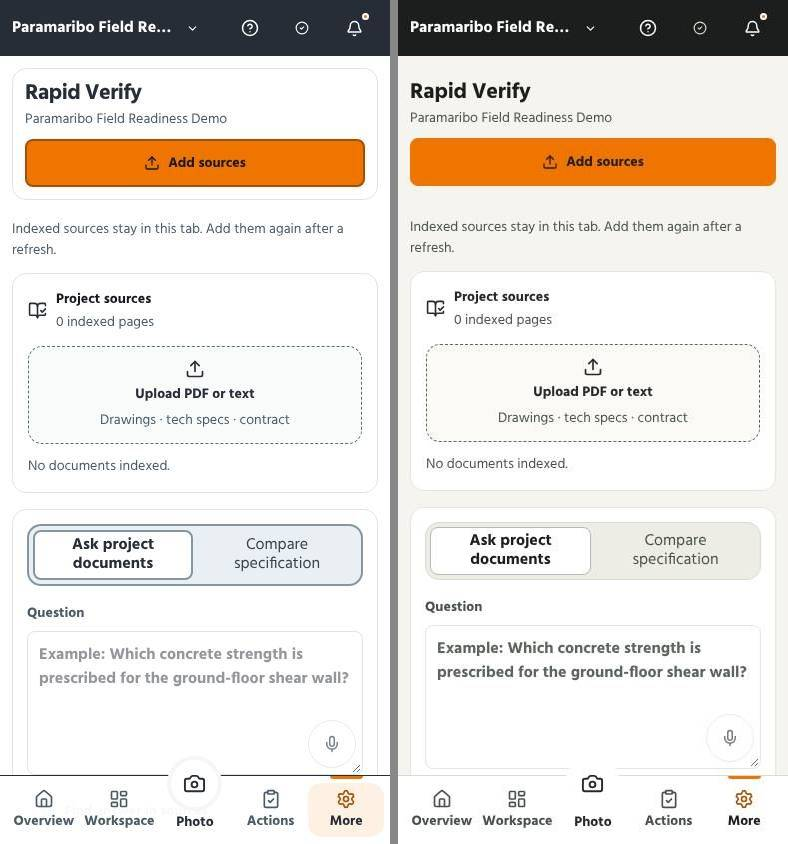
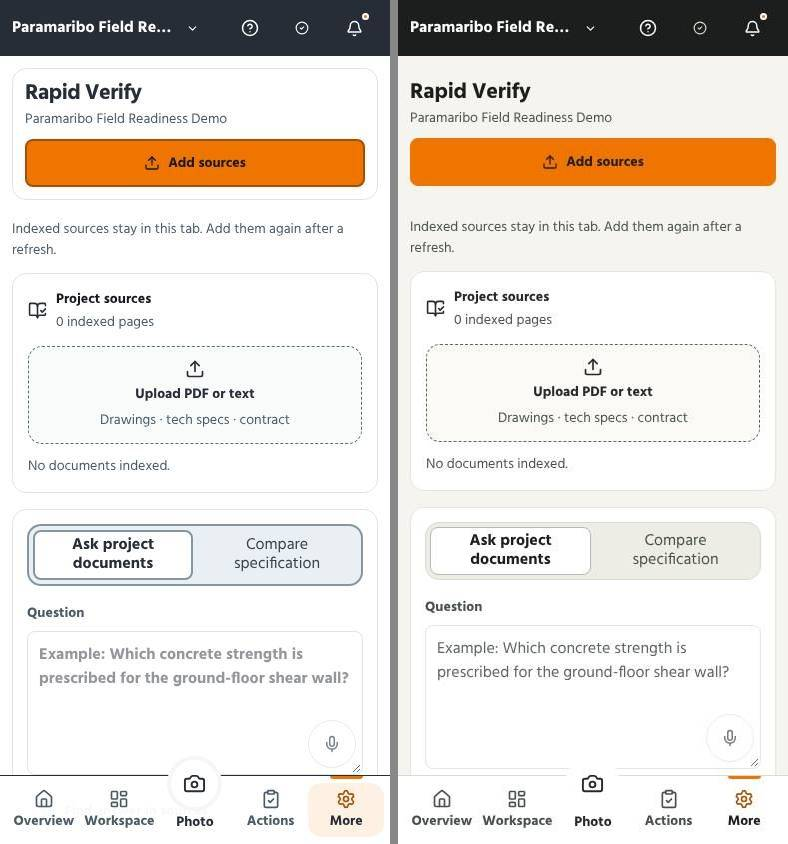
UI audit pass: 123 screens, every role and width; headings, module header, dialogs, data fixes
Visual system
- App headings are bold again: Tailwind's reset set them to body weight and many
  never set their own. Zero-specificity rule scoped to the app.
- Module header: module name is the page title, count beside it, natural-width
  New; icon-only back button on phones (accessible name kept).
- Dialogs, help guide, phone module sheet, project switcher, report check,
  project list, media tiles, management strips, backup health: soft rules,
  no tinted icon squares or orange caps labels, orange only for the current
  selection, sage for on/done.
- Tablet: headings stay left-aligned; title and primary action share a row.
- One primary per view: checklist library installs are secondary buttons.

Behaviour and copy
- Recent activity showed the viewer's name on every record; it now shows the
  author (own name, a known member, or "Another team member").
- Overview weather error is bilingual instead of the API's Dutch text.
- Photo empty state does not offer "Take photo" to roles that cannot record.
- Action center empty project no longer says "No records match" with a
  pointless "Clear filters".
- Project rule toggles carry aria-pressed; on is sage with a tick.
- Report check button reads "Fill in" instead of "Complete".

Findings table and before/after images in docs/operations/ui-refresh-2026-10-30.

Claude-Session: https://claude.ai/code/session_01JJQWCt85nagY6tNx6wjh6H

Changed region(s): [[0.5482, 0.7393, 0.9442, 0.8009]]

diff --git a/apps/web/app/styles/system.css b/apps/web/app/styles/system.css
@@ -36,7 +36,7 @@ input:not([type="checkbox"]):not([type="radio"]):focus,
 select:focus,
 textarea:focus { border-color: var(--ink-900); }
 input::placeholder,
-textarea::placeholder { color: var(--ink-600); }
+textarea::placeholder { color: var(--ink-600); font-weight: var(--weight-normal); opacity: 1; }
 
 /* Ticks, radio dots and switches are sage: a box that is ticked is work done. */
 input[type="checkbox"],
@@ -466,4 +466,229 @@ input[type="radio"] { accent-color: var(--sage-700); }
 /* Report sources: a ticked source is a quiet row, the tick carries the state. */
 .report-source-checklist label { border-color: var(--line); }
 .report-source-checklist label:hover { border-color: var(--ink-500); }
-.report-source-checklist label:has(input:checked) { background: var(--sage-50); border-color: var(--sage-200); }
+@media (max-width: 640px) {
+  /* Short source names: two to a row, so the list is half as long. */
+  .report-source-checklist { display: grid; gap: var(--space-2); grid-template-columns: repeat(2, minmax(0, 1fr)); }
+  .report-source-checklist label { min-width: 0; overflow-wrap: anywhere; }
+}
+
+/* ---------- Dialogs ---------- */
+
+/* Every dialog has one bold title; the line under it is plain muted text. */
+.modal-header { background: var(--paper); border-bottom-color: var(--line); }
+.modal-header h2,
+.mobile-module-sheet header h2,
+.field-guide-dialog > header h2 { color: var(--ink-950); font-weight: var(--weight-bold); letter-spacing: -.01em; }
+.modal-header p { color: var(--ink-700); font-size: var(--text-sm); }
+.modal-close,
+.mobile-module-sheet header > button {
+  background: var(--paper);
+  border: 1px solid var(--line);
+  border-radius: var(--radius-sm);
+  color: var(--ink-800);
+}
+.modal-close:hover,
+.mobile-module-sheet header > button:hover { background: var(--ink-50); border-color: var(--ink-500); }
+
+/* Built-in guide: the small label above the question is plain muted text, not an orange caps line;
+   task icons are line work, and the chosen task carries the orange selection on its border. */
+.field-guide-dialog > header span { color: var(--ink-700); font-size: var(--text-sm); font-weight: var(--weight-semibold); }
+.field-guide-task-picker button,
+.field-guide-task-detail { border-color: var(--line); }
+.field-guide-task-picker button > span,
+.field-guide-task-picker button.active > span { background: transparent; color: var(--ink-700); }
+.field-guide-task-picker button strong { color: var(--ink-900); font-size: var(--text-sm); }
+.field-guide-task-picker button.active { background: var(--paper); border-color: var(--signal); color: var(--ink-950); }
+.field-guide-task-picker button.active > span { color: var(--signal-dark); }
+
+/* Phone module sheet: one ruled list, icons without a tinted square. */
+.mobile-module-grid { gap: 0; }
+.mobile-module-grid > button,
+.mobile-module-grid > button.active {
+  background: var(--paper);
+  border: 0;
+  border-bottom: 1px solid var(--ink-200);
+  border-radius: 0;
+  color: var(--ink-800);
+}
+.mobile-module-grid > button:last-of-type { border-bottom: 0; }
+.mobile-module-grid > button > span:first-child { background: transparent; color: var(--ink-700); }
+.mobile-module-grid > button.active > span:first-child { color: var(--signal-dark); }
+.mobile-module-grid > button strong { color: var(--ink-950); }
+
+/* Project switcher: the current project is the current selection, so it is marked in orange. */
+.project-switcher-row { border-color: var(--line); }
+.project-switcher-row:hover,
+.project-switcher-row:focus-visible { border-color: var(--ink-500); }
+.project-switcher-row.active { background: var(--paper); border-color: var(--signal); }
+.project-switcher-row.active .project-switcher-icon,
+.project-switcher-row.active .project-switcher-state { color: var(--signal-dark); }
+
+/* Report check: a quiet ruled list; on a phone the button that fills a gap sits under its text. */
+.report-check-list { gap: 0; }
+.report-check-row {
+  background: transparent;
+  border: 0;
+  border-bottom: 1px solid var(--ink-200);
+  border-radius: 0;
+  padding: var(--space-3) 0;
+}
+.report-check-row:last-child { border-bottom: 0; }
+.report-check-state { border-radius: var(--radius-pill); }
+.report-check-copy strong { color: var(--ink-950); font-size: var(--text-md); }
+.report-check-copy span { color: var(--ink-700); font-size: var(--text-sm); }
+.report-summary-box { background: var(--ink-025); border-color: var(--line); }
+@media (max-width: 640px) {
+  .report-check-row { align-items: start; grid-template-columns: auto minmax(0, 1fr); }
+  .report-check-row > .ui-button { grid-column: 2; justify-self: start; padding-inline: 0; }
+}
+
+/* ---------- Project list ---------- */
+
+.context-shell { background: var(--canvas); }
+.context-topbar { background: var(--paper); border-bottom: 1px solid var(--line); }
+.context-brand .company-lockup { align-items: flex-start; }
+.context-brand .company-logo-context { color: var(--ink-700); font-size: var(--text-sm); letter-spacing: 0; text-transform: none; }
+.context-heading h1 { color: var(--ink-950); font-weight: var(--weight-bold); letter-spacing: -.015em; }
+.data-mode-notice { border-color: var(--line); border-radius: var(--radius-md); font-size: var(--text-sm); }
+.data-mode-notice.connected { background: var(--sage-50); border-color: var(--sage-200); color: var(--sage-700); }
+.portfolio-cta { border-radius: var(--radius-sm); }
+.project-selection-grid { border-color: var(--line); }
+.project-selection-grid .project-selection-card { border-color: var(--ink-200); }
+.project-selection-grid .project-selection-card:hover { background: var(--ink-025); }
+
+/* ---------- Module header in the workspace ---------- */
+
+/* Back to the workspace, then the module name as the page title, then its one create button. */
+.workspace-section-controls {
+  background: transparent;
+  border: 0;
+  grid-template-columns: auto minmax(0, 1fr) auto;
+  padding: 0;
+}
+.workspace-back-button { background: var(--paper); border: 1px solid var(--ink-500); color: var(--ink-900); font-size: var(--text-sm); }
+.workspace-back-button:hover { background: var(--ink-50); }
+.workspace-current-module { border-left: 0; padding: 0 var(--space-2); }
+.workspace-current-module > span { color: var(--ink-700); font-size: var(--text-sm); font-weight: var(--weight-normal); letter-spacing: 0; text-transform: none; }
+.workspace-current-module > h1 { color: var(--ink-950); font-size: var(--text-xl); line-height: 1.2; }
+.workspace-current-module > b { background: var(--ink-100); color: var(--ink-800); font-size: var(--text-sm); }
+.workspace-module-create { min-width: 112px; }
+
+/* Sliders: progress is sage. */
+input[type="range"] { accent-color: var(--sage-700); }
+
+/* ---------- Management ---------- */
+
+.management-kpis,
+.management-context {
+  background: var(--paper);
+  border: 1px solid var(--line);
+  border-radius: var(--radius-md);
+  overflow: hidden;
+}
+.management-kpis > *,
+.management-context > * { border-color: var(--ink-200); }
+.external-submission-center,
+.company-task-assignment { border-color: var(--line); }
+.external-submission-center > header .record-number,
+.company-task-assignment .record-number { color: var(--ink-950); font-size: var(--text-lg); font-weight: var(--weight-bold); }
+.external-submission-center > header h2,
+.company-task-assignment h3 { color: var(--ink-700); font-size: var(--text-sm); font-weight: var(--weight-normal); }
+.external-access-summary > *,
+.company-action-assignment-list > *,
+.employee-workload-strip > * { background: var(--ink-025); border-color: var(--ink-200); }
+@media (max-width: 640px) {
+  .workspace-section-controls { background: transparent; border: 0; padding: 0; }
+  .workspace-section-controls .workspace-current-module h1 { font-size: var(--text-lg); }
+}
+
+/* Headings. Tailwind's reset sets every heading to the body weight, and many app headings never set
+   their own, so form, dialog and page titles read as plain text. Zero specificity: any rule that sets
+   a weight on purpose still wins. Scoped to the app so the public site keeps its own type. */
+:where(.app-shell, .access-shell, .context-shell, [role="dialog"]) :where(h1, h2, h3, h4) {
+  color: var(--ink-950);
+  font-weight: var(--weight-bold);
+}
+:where(.app-shell, [role="dialog"]) :where(h2) { letter-spacing: -.005em; }
+
+/* Action rows: the record type icon is plain line work in the row's ink, not a tinted square. */
+.unified-action-icon,
+.unified-action-icon.issue,
+.unified-action-icon.punchlist,
+.unified-action-icon.rfi,
+.unified-action-icon.rfa,
+.unified-action-icon.wir { background: transparent; color: var(--ink-700); }
+
+/* The count belongs to the module name, so it sits right after it. */
+.workspace-current-module { grid-template-columns: minmax(0, max-content) auto; justify-content: start; column-gap: var(--space-2); }
+@media (max-width: 640px) {
+  /* On a phone the way back is the arrow alone (its name stays for screen readers), so the module name fits. */
+  .workspace-section-controls .workspace-back-button { min-width: var(--control-h-lg); padding-inline: var(--space-3); }
+  .workspace-back-label { clip: rect(0 0 0 0); height: 1px; margin: -1px; overflow: hidden; position: absolute; white-space: nowrap; width: 1px; }
+}
+
+/* ---------- Media ---------- */
+
+.media-choice,
+.media-choice.primary,
+.media-choice.media-choice-360 { border-color: var(--line); border-radius: var(--radius-md); }
+.media-choice:hover,
+.media-choice.primary:hover,
+.media-choice.media-choice-360:hover { background: var(--ink-025); border-color: var(--ink-500); }
+.media-choice strong { color: var(--ink-950); }
+.media-choice small { color: var(--ink-700); }
+.asset-library-filters,
+.asset-bulk-actions,
+.photo-stack-actions,
+.asset-record-library,
+.asset-folder-control,
+.media-card { border-color: var(--line); }
+.asset-library-filters input[type="search"] { border: 1px solid var(--ink-500); border-radius: var(--radius-sm); padding-inline: var(--space-3); }
+.asset-library-filters label > span,
+.asset-bulk-actions label > span { color: var(--ink-800); font-size: var(--text-sm); font-weight: var(--weight-semibold); }
+.asset-record-grid button { background: var(--paper); border-color: var(--line); }
+.asset-record-grid button:hover { border-color: var(--ink-500); }
+.asset-record-grid button em { color: var(--sage-700); }
+
+/* ---------- Tablet ---------- */
+
+@media (max-width: 1024px) {
+  /* Headings stay left-aligned when their tools wrap under them. */
+  .project-overview .overview-hero { align-items: stretch; flex-direction: column; text-align: left; }
+  .workspace-launcher-toolbar,
+  .workspace-launcher-toolbar.ui-page-header { align-items: stretch; text-align: left; }
+  .workspace-launcher-toolbar h2 { text-align: left; }
+  /* A page title and its one primary action share a row while they fit. */
+  .action-center-hero { align-items: center; flex-direction: row; flex-wrap: wrap; justify-content: space-between; text-align: left; }
+}
+
+/* On/off options (project modules, report sections): "on" is sage with a tick, not the orange selection. */
+.toggle-presets button.active {
+  background: var(--sage-50);
+  border-color: var(--sage-500);
+  color: var(--sage-700);
+}
+.toggle-presets button.active::before { content: "✓"; margin-inline-end: var(--space-1); }
+.toggle-presets button:not(.active) { background: var(--paper); border-color: var(--ink-400); color: var(--ink-700); font-weight: var(--weight-semibold); }
+
+/* Checklist library: install is a secondary action on each card; the installed ones say so in sage. */
+.checklist-library-card .ui-button:disabled { border-color: var(--sage-200); color: var(--sage-700); }
+.checklist-library-card > span { color: var(--ink-700); font-size: var(--text-sm); }
+
+/* Backup health: the state is in the icon colour and the card's top rule, not in a tinted square. */
+.backup-health-card,
+.backup-health-card.attention,
+.backup-tool,
+.backup-retention,
+.backup-counts > * { border-color: var(--line); }
+.backup-health-card > span,
+.backup-health-card.healthy > span,
+.backup-health-card.attention > span { background: transparent; }
+.backup-health-card.healthy { border-top: 3px solid var(--sage-500); }
+.backup-health-card.attention { border-top: 3px solid var(--yellow); }
+.backup-health-card b { font-size: var(--text-lg); }
+
+/* Account security and access cards sit on the same soft rule as every other surface. */
+.mfa-card,
+.module-card { background: var(--paper); border-color: var(--line); border-radius: var(--radius-md); }
+.module-card:hover { border-color: var(--ink-500); }

diff --git a/apps/web/app/operational-workspace.tsx b/apps/web/app/operational-workspace.tsx
@@ -3126,7 +3126,7 @@ function ProjectOperations({
       ) : (
         <>
           <div className="workspace-section-controls">
-            <button className="workspace-back-button" type="button" onClick={() => switchTab("home")}><ArrowLeft size={17} /> {text("Workspace", "Werkruimte")}</button>
+            <button className="workspace-back-button" type="button" onClick={() => switchTab("home")}><ArrowLeft size={17} aria-hidden="true" /> <span className="workspace-back-label">{text("Workspace", "Werkruimte")}</span></button>
             <div className="workspace-current-module" aria-live="polite">
               <span>{projectName}</span>
               {/* The module's own title: a heading, so it is announced and navigable. */}
@@ -6015,15 +6015,15 @@ function AdminOperations({ data, client, organizationId, projectId, projectName,
               </div>
               <div className="click-answer-block">
                 <strong>{text("Active project modules", "Actieve projectmodules")}</strong>
-                <div className="quick-issue-presets">{Object.entries({
+                <div className="quick-issue-presets toggle-presets">{Object.entries({
                   attendance: text("Workforce", "Workforce"), inspections: text("Inspections", "Inspecties"),
                   quality: text("Issues & NCR", "Issues & NCR"), hse: "HSE", actions: text("Actions", "Acties"),
                   documents: text("Documents", "Documenten"), visual_evidence: text("Visual evidence", "Visueel bewijs"),
-                }).map(([module, label]) => <button className={settings.modules[module] !== false ? "active" : ""} type="button" onClick={() => setSettings({ ...settings, modules: { ...settings.modules, [module]: settings.modules[module] === false } })} key={module}>{label}</button>)}</div>
+                }).map(([module, label]) => <button className={settings.modules[module] !== false ? "active" : ""} type="button" aria-pressed={settings.modules[module] !== false} onClick={() => setSettings({ ...settings, modules: { ...settings.modules, [module]: settings.modules[module] === false } })} key={module}>{label}</button>)}</div>
               </div>
               <div className="click-answer-block">
                 <strong>{text("Client report sections", "Secties in klantrapport")}</strong>
-                <div className="quick-issue-presets">{[
+                <div className="quick-issue-presets toggle-presets">{[
                   ["photos", text("Photos", "Foto's")],
                   ["works_ongoing", text("Works ongoing", "Werkzaamheden gaande")],
                   ["works_completed", text("Works completed", "Werkzaamheden afgerond")],
@@ -6039,7 +6039,7 @@ function AdminOperations({ data, client, organizationId, projectId, projectName,
                   ["deadlines", text("Deadlines", "Deadlines")],
                   ["hse_incident", text("HSE incident", "HSE-incident")],
                   ["agreements_made", text("Agreements made", "Gemaakte afspraken")],
-                ].map(([sectionName, label]) => <button className={settings.reportSections.includes(sectionName) ? "active" : ""} type="button" onClick={() => setSettings({ ...settings, reportSections: settings.reportSections.includes(sectionName) ? settings.reportSections.filter((item) => item !== sectionName) : [...settings.reportSections, sectionName] })} key={sectionName}>{label}</button>)}</div>
+                ].map(([sectionName, label]) => <button className={settings.reportSections.includes(sectionName) ? "active" : ""} type="button" aria-pressed={settings.reportSections.includes(sectionName)} onClick={() => setSettings({ ...settings, reportSections: settings.reportSections.includes(sectionName) ? settings.reportSections.filter((item) => item !== sectionName) : [...settings.reportSections, sectionName] })} key={sectionName}>{label}</button>)}</div>
               </div>
               <div className="form-grid-2">
                 <label className="form-field"><span>{text("Report header", "Rapportkop")}</span><input value={settings.reportHeader} onChange={(event) => setSettings({ ...settings, reportHeader: event.target.value })} /></label>
@@ -6079,7 +6079,7 @@ function AdminOperations({ data, client, organizationId, projectId, projectName,
           <div className="checklist-library-grid">
             {data.checklistLibrary.filter((item) => libraryCategory === "all" || item.category === libraryCategory).map((item) => {
               const installed = data.templates.some((templateItem) => templateItem.project_id === projectId && templateItem.code === item.code && templateItem.status === "published");
-              return <article className="checklist-library-card" key={item.code}><span>{item.code} · {item.category}</span><h3>{item.name}</h3><small>{item.prompts.length} {text("mandatory checkpoints", "verplichte controlepunten")}</small><button className={installed ? "ui-button ui-button--secondary ui-button--md" : "ui-button ui-button--primary ui-button--md"} type="button" disabled={busy || installed} onClick={() => void run(() => installChecklistLibraryTemplate(client, projectId, item.code), text(`${item.name} installed as a project checklist.`, `${item.name} als projectchecklist geïnstalleerd.`))}>{installed ? <CheckCircle2 size={15} /> : <Plus size={15} />} {installed ? text("Installed", "Geïnstalleerd") : text("Install checklist", "Installeer checklist")}</button></article>;
+              return <article className="checklist-library-card" key={item.code}><span>{item.code} · {item.category}</span><h3>{item.name}</h3><small>{item.prompts.length} {text("mandatory checkpoints", "verplichte controlepunten")}</small><button className="ui-button ui-button--secondary ui-button--md" type="button" disabled={busy || installed} onClick={() => void run(() => installChecklistLibraryTemplate(client, projectId, item.code), text(`${item.name} installed as a project checklist.`, `${item.name} als projectchecklist geïnstalleerd.`))}>{installed ? <CheckCircle2 size={15} /> : <Plus size={15} />} {installed ? text("Installed", "Geïnstalleerd") : text("Install checklist", "Installeer checklist")}</button></article>;
             })}
           </div>
           <details className="custom-checklist-details"><summary>{text("Create a custom project checklist", "Maak een eigen projectchecklist")}</summary><div className="operation-form"><h2>{text("Publish new project checklist", "Nieuwe projectchecklist publiceren")}</h2><div className="form-grid-2"><label className="form-field"><span>{text("Module", "Module")}</span><select value={template.module} onChange={(event) => setTemplate({ ...template, module: event.target.value })}><option value="inspection">{text("Inspection", "Inspectie")}</option><option value="hse">HSE</option><option value="delivery">{text("Delivery", "Levering")}</option><option value="test">{text("Test / measurement", "Test / meting")}</option></select></label><label className="form-field"><span>Code</span><input value={template.code} onChange={(event) => setTemplate({ ...template, code: event.target.value })} placeholder={text("For example CONC-01", "Bijv. BETON-01")} /></label></div><label className="form-field"><span>{text("Name", "Naam")}</span><input value={template.name} onChange={(event) => setTemplate({ ...template, name: event.target.value })} /></label><label className="form-field"><span>{text("Checkpoints · one per line", "Controlepunten · één per regel")}</span><textarea rows={6} value={template.prompts} onChange={(event) => setTemplate({ ...template, prompts: event.target.value })} /><DictateButton onText={(transcript) => setTemplate((current) => ({ ...current, prompts: appendDictation(current.prompts, transcript) }))} /></label><button className="ui-button ui-button--primary ui-button--md" type="button" disabled={busy} onClick={addTemplate}><Plus size={15} /> {text("Publish checklist", "Checklist publiceren")}</button></div></details>

diff --git a/apps/web/app/codeco-supervision-app.tsx b/apps/web/app/codeco-supervision-app.tsx
@@ -815,6 +815,7 @@ export function CodecoSupervisionApp() {
       setDayHydrated(true);
 
       const buildingNameById = new Map((selectedProject?.buildings ?? []).map((building) => [building.id, building.name]));
+      const memberNameById = new Map((internalAccessQuery.data?.members ?? []).map((member) => [member.userId, member.displayName?.trim() || member.email]));
       setEntries(day.registrations.map((row) => {
       const type = String(row.registration_type);
       const occurredAt = new Date(String(row.occurred_at));
@@ -830,7 +831,11 @@ export function CodecoSupervisionApp() {
           buildingNameById.get(String(row.building_id)) ?? selectedBuilding.name,
           locationBreadcrumb(projectLocationsQuery.data ?? [], String(row.location_node_id ?? "")),
         ].filter(Boolean).join(" → "),
-        person: currentUserName,
+        // The person who recorded it, not whoever is reading: another member's name when the
+        // directory is loaded, otherwise a neutral label rather than the reader's own name.
+        person: String(row.created_by ?? "") === session?.user.id
+          ? currentUserName
+          : memberNameById.get(String(row.created_by ?? "")) ?? text("Another team member", "Ander teamlid"),
         badge: priorityLabel,
         badgeTone: String(row.priority) === "critical" ? "red" : "green",
       };
@@ -839,7 +844,7 @@ export function CodecoSupervisionApp() {
       setAttendance(attendanceRowsForBuilding(day, selectedBuilding.id, text("Unknown party", "Onbekende partij"), configuredShiftStart, configuredShiftEnd));
     }, 0);
     return () => window.clearTimeout(hydration);
-  }, [configuredShiftEnd, configuredShiftStart, currentUserName, dayQuery.data, locale, projectLocationsQuery.data, selectedBuilding, selectedProject, text]);
+  }, [configuredShiftEnd, configuredShiftStart, currentUserName, dayQuery.data, internalAccessQuery.data?.members, locale, projectLocationsQuery.data, selectedBuilding, selectedProject, session?.user.id, text]);
 
   useEffect(() => {
     if (!supabase || !session || !selectedProject) return;
@@ -3611,7 +3616,7 @@ function ReportModal({
                 <span className="report-check-copy"><strong>{check.title}</strong><span>{check.detail}</span></span>
                 {check.complete || !check.open
                   ? <span className="report-check-label">{check.complete ? text("Complete", "Compleet") : text("Missing", "Ontbreekt")}</span>
-                  : <button className="ui-button ui-button--quiet ui-button--md" type="button" onClick={check.open}>{text("Complete", "Aanvullen")}</button>}
+                  : <button className="ui-button ui-button--quiet ui-button--md" type="button" onClick={check.open}>{text("Fill in", "Aanvullen")}</button>}
               </div>
             ))}
           </div>

diff --git a/apps/web/app/client-dashboard.tsx b/apps/web/app/client-dashboard.tsx
@@ -268,7 +268,9 @@ export function ClientDashboard({
 }) {
   const { locale, text } = useLanguage();
   // Starting the day, answering its questions and checking the report are the supervisor's; a reader does not get the buttons.
-  const canWriteDay = useProjectPermissions().canAny("reports.create", "reports.edit");
+  const projectPermissions = useProjectPermissions();
+  const canWriteDay = projectPermissions.canAny("reports.create", "reports.edit");
+  const canAddPhotos = projectPermissions.canAny("records.create", "files.manage");
   const [search, setSearch] = useState("");
   // Shared with the top bar so both show the same reading from one request.
   const { weather: liveWeather, error: weatherError, loading: weatherLoading, reload: loadLiveWeather } = useLiveProjectWeather(projectLocation);
@@ -584,7 +586,7 @@ export function ClientDashboard({
                   </span>
                   <span><strong>{photo.title}</strong><small>{new Intl.DateTimeFormat(locale, { day: "numeric", month: "short", hour: "2-digit", minute: "2-digit", hour12: false, timeZone: "America/Paramaribo" }).format(new Date(photo.capturedAt))}</small></span>
                 </button>
-              )) : <button className="ui-button ui-button--quiet ui-button--md overview-evidence-empty" type="button" onClick={() => openRecord("files", "")}>{text("No photos yet · Take photo", "Nog geen foto’s · Maak een foto")}</button>}
+              )) : <button className="ui-button ui-button--quiet ui-button--md overview-evidence-empty" type="button" onClick={() => openRecord("files", "")}>{canAddPhotos ? text("No photos yet · Take photo", "Nog geen foto’s · Maak een foto") : text("No photos yet · Open the photo library", "Nog geen foto’s · Open de fotobibliotheek")}</button>}
             </div>
           </article>
 
@@ -602,7 +604,7 @@ export function ClientDashboard({
               <span><small>{text("Humidity", "Luchtvochtigheid")}</small><strong>{liveWeather.relativeHumidityPercent}%</strong></span>
               <span><small>{text("Wind", "Wind")}</small><strong>{liveWeather.windSpeedKph} km/h</strong></span>
               <span><small>{text("Rain", "Regen")}</small><strong>{liveWeather.precipitationMm} mm</strong></span>
-            </div> : weatherError ? <p className="overview-weather-error">{weatherError}</p> : null}
+            </div> : weatherError ? <p className="overview-weather-error">{text("Live weather could not be loaded. Check it on site.", "Het actuele weer kon niet worden geladen. Controleer het ter plaatse.")}</p> : null}
             <div className="overview-site-meta"><span><TimerReset size={14} /> {text("Current report context", "Actuele rapportcontext")}</span><strong>{buildingContextLabel}</strong></div>
           </article>
         </div>

diff --git a/apps/web/app/project-action-center.tsx b/apps/web/app/project-action-center.tsx
@@ -347,7 +347,7 @@ export function ProjectActionCenter({
                 <span className={`document-status ${isSettledStatus(item.status) ? "approved" : ""}`}>{statusText(item.status, text)}</span>
                 <ArrowRight size={15} />
               </button>
-            )) : <div className="action-center-empty"><Filter size={24} /><div><strong>{view === "mine" ? text("Nothing is waiting for you", "Er wacht niets op jou") : view === "deadlines" && deadlineFilter === "overdue" ? text("Nothing is overdue", "Niets is te laat") : text("No records match this view", "Geen registraties in deze weergave")}</strong></div><button className="ui-button ui-button--secondary ui-button--md" type="button" onClick={() => { setTypeFilter("all"); setWorkFilter("all"); setDeadlineFilter("all"); setSearch(""); }}>{text("Clear filters", "Wis filters")}</button></div>}
+            )) : <div className="action-center-empty"><Filter size={24} /><div><strong>{view === "mine" ? text("Nothing is waiting for you", "Er wacht niets op jou") : !scopedItems.length ? text("No follow-up in this project yet", "Nog geen opvolging in dit project") : view === "deadlines" && deadlineFilter === "overdue" ? text("Nothing is overdue", "Niets is te laat") : text("No records match this view", "Geen registraties in deze weergave")}</strong></div>{scopedItems.length ? <button className="ui-button ui-button--secondary ui-button--md" type="button" onClick={() => { setTypeFilter("all"); setWorkFilter("all"); setDeadlineFilter("all"); setSearch(""); }}>{text("Clear filters", "Wis filters")}</button> : null}</div>}
           </div>
         </div>
 

diff --git a/docs/operations/ui-refresh-2026-10-30/README.md b/docs/operations/ui-refresh-2026-10-30/README.md
@@ -22,3 +22,34 @@ What changed:
   higher on the screen.
 
 The rules are in `apps/web/app/styles/system.css` (loaded last) and the values in `apps/web/app/styles/tokens.css`.
+
+## Second pass: full audit
+
+123 screens were captured for this pass: sign-in, the project list, every module, the dialogs and sheets
+(notifications, help, day log, start of day, report check, project switcher, the phone module sheet, new action)
+and the Management sub-pages. They cover the supervisor, client and contractor roles at 1440, 820 and 390 px,
+plus the 20 workspace modules at 1440 and 390 px. Findings and what was done:
+
+| # | Finding | Fix |
+|---|---|---|
+| 1 | Form, dialog and page titles rendered at body weight: Tailwind's reset sets headings to `inherit`, and many app headings never set their own weight | One zero-specificity rule makes app headings bold and charcoal; rules that set a weight on purpose still win. Scoped to the app, so the public site is untouched |
+| 2 | Module header: tiny module name, project name in caps, a very wide outlined "New" button, the count far from the name | Module name is the page title (22 px), the project is a plain line above it, the count sits beside the name and "New" is its natural width. On phones the back button is the arrow alone (its accessible name stays), so long names fit |
+| 3 | Overview weather error was shown in Dutch on the English screen (the API returns Dutch text) | The overview shows its own bilingual message |
+| 4 | Recent activity showed the **viewer's** name on every record (a client saw their own name on the supervisor's work) | The line shows the viewer's name only on their own records, a member's name when the directory is loaded, otherwise "Another team member" |
+| 5 | A client was offered "Take photo" in the photo empty state | Users who cannot record are pointed to the photo library instead |
+| 6 | A contractor with no follow-up saw "No records match this view" and "Clear filters" although nothing was filtered | "No follow-up in this project yet", without the filter button |
+| 7 | Quality standards showed 12 orange "Install checklist" buttons in one view | Secondary buttons; installed ones read as done in sage |
+| 8 | Project rules: about 20 orange on/off chips, and screen readers were not told whether a chip was on | On is sage with a tick, off is neutral; the chips now carry `aria-pressed` |
+| 9 | Help guide: an orange caps label above the question, task icons in tinted squares | A plain muted label; line icons; the chosen task has an orange border |
+| 10 | Phone module sheet: every row a separate card with an icon in a tinted square | One ruled list with line icons |
+| 11 | Project switcher marked the current project in green | The current selection is orange, as everywhere else |
+| 12 | Report check on a phone: icon, text and the "Complete" button in three misaligned places; the button read like a status | A ruled list; the button sits under its text and says "Fill in" |
+| 13 | Report sources turned the whole list green once ticked; on a phone the list was 16 rows long | Neutral rows (the tick carries the state); two per row on a phone |
+| 14 | Rapid Verify placeholder was bold and dark, so it looked like typed text | Placeholders are regular weight in the muted ink |
+| 15 | Project list: logo label off-centre, dark header rule, pill-shaped button unlike every other button | Aligned label, soft rule, 8 px button radius, sage "Online" notice |
+| 16 | Tablet: the overview heading was right-aligned, the workspace toolbar centred, and "New action" fell under its title | Left-aligned headings; title and primary action share a row |
+| 17 | Management, Backup and media: dark outlines on strips and cards, tinted icon squares on backup health, upload tiles with dark borders, a borderless asset search | Soft rules everywhere; backup health shows its state in the icon colour and a top rule; the search field has its outline |
+| 18 | Action rows, progress sliders | Plain line icons; sliders are sage |
+
+Not changed: notification titles that the database writes in Dutch (data, documented in
+`codeco-supervision-app.tsx`), and the second back arrow inside an open record (it closes the record, not the module).
